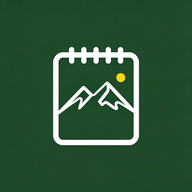
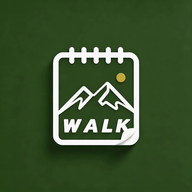
v1.0.10.6(vc117): 图标高清重做(原图1600抠图零resize损失+背景#28431a) + CHANGELOG

diff --git a/www/index.html b/www/index.html
@@ -5050,7 +5050,7 @@
                     <div class="about-card">
                         <div class="about-logo">🏔</div>
                         <div class="about-name">XiXiの徒步小记</div>
-                        <div class="about-version">版本 1.0.10.5</div>
+                        <div class="about-version">版本 1.0.10.6</div>
                         <div class="about-desc">一款由 <b class="about-highlight">XiXi</b> 亲手制作的徒步记录小软件：记录每一次登山的足迹与心情，统计海拔与难度，规划下一次出发。</div>
                         <div class="about-tag">Made by XiXi 💛</div>
                     </div>
@@ -5342,7 +5342,7 @@ function applyFpsPreference() {
 
 const STORAGE_KEY = 'hiking_records';
 // ★当前应用版本（2026-08-11：应用内检查更新用；bump 版本时必须同步）
-var APP_VERSION = '1.0.10.5';
+var APP_VERSION = '1.0.10.6';
 // 更新下载镜像源（国内加速；原生下载失败自动兜底官方直链，改这里一处即可换源）
 var UPDATE_MIRROR_PREFIX = 'https://ghfast.top/';
 const PLANNED_TRIPS_KEY = 'planned_trips';
@@ -8720,7 +8720,7 @@ function buildFullBackupPayload() {
     return {
         app: 'XiXiHiking',
         appName: 'XiXiの徒步小记',
-        version: '1.0.10.5',
+        version: '1.0.10.6',
         exportedAt: new Date().toISOString(),
         records: records || [],
         plannedTrips: plannedTrips || []

diff --git a/CHANGELOG.md b/CHANGELOG.md
@@ -16,6 +16,10 @@
 
 ## 新版号阶段（vc84 起，有完整记录）
 
+### v1.0.10.6（vc117 · 2026-08-19）
+- 图标高清重做：自适应图标前景用原图 1600×1600 抠图（颜色阈值透明化背景与山内部，只留白线主体），零 resize 损失
+- 新图背景色采样 #28431a；传统图标/网页图标同步更新
+
 ### v1.0.10.5（vc116 · 2026-08-19）
 - 全新 App 图标（深绿背景 + 白色日历 + 山 + 小太阳）：Android 桌面图标（5 密度 × 3）与网页/PWA 图标（192/512/maskable）全部替换
 - iOS 主屏图标专用 180×180（apple-touch-icon）——重新添加到主屏幕即生效
